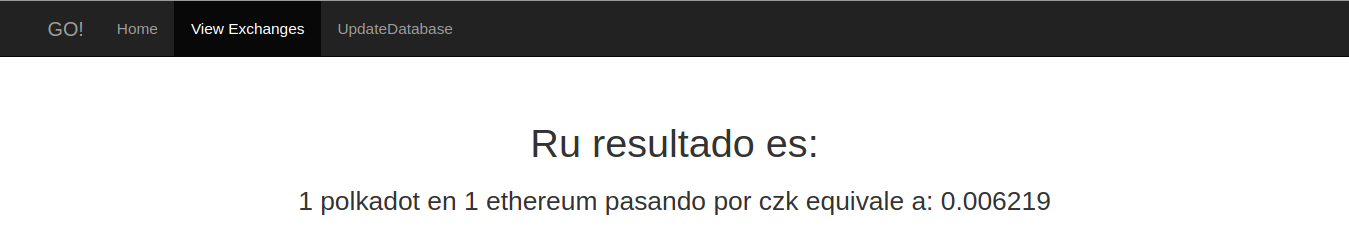
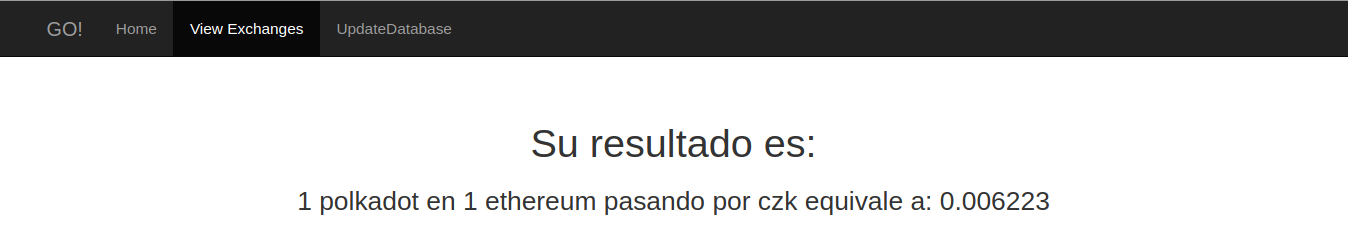
update readme

diff --git a/templates/exchanged.html b/templates/exchanged.html
@@ -56,7 +56,7 @@
     <div class="container">
 
       <div class="starter-template">
-        <h1>Ru resultado es:</h1>
+        <h1>Su resultado es:</h1>
         <h3>{{.}}</h3>       
 
       </div>
